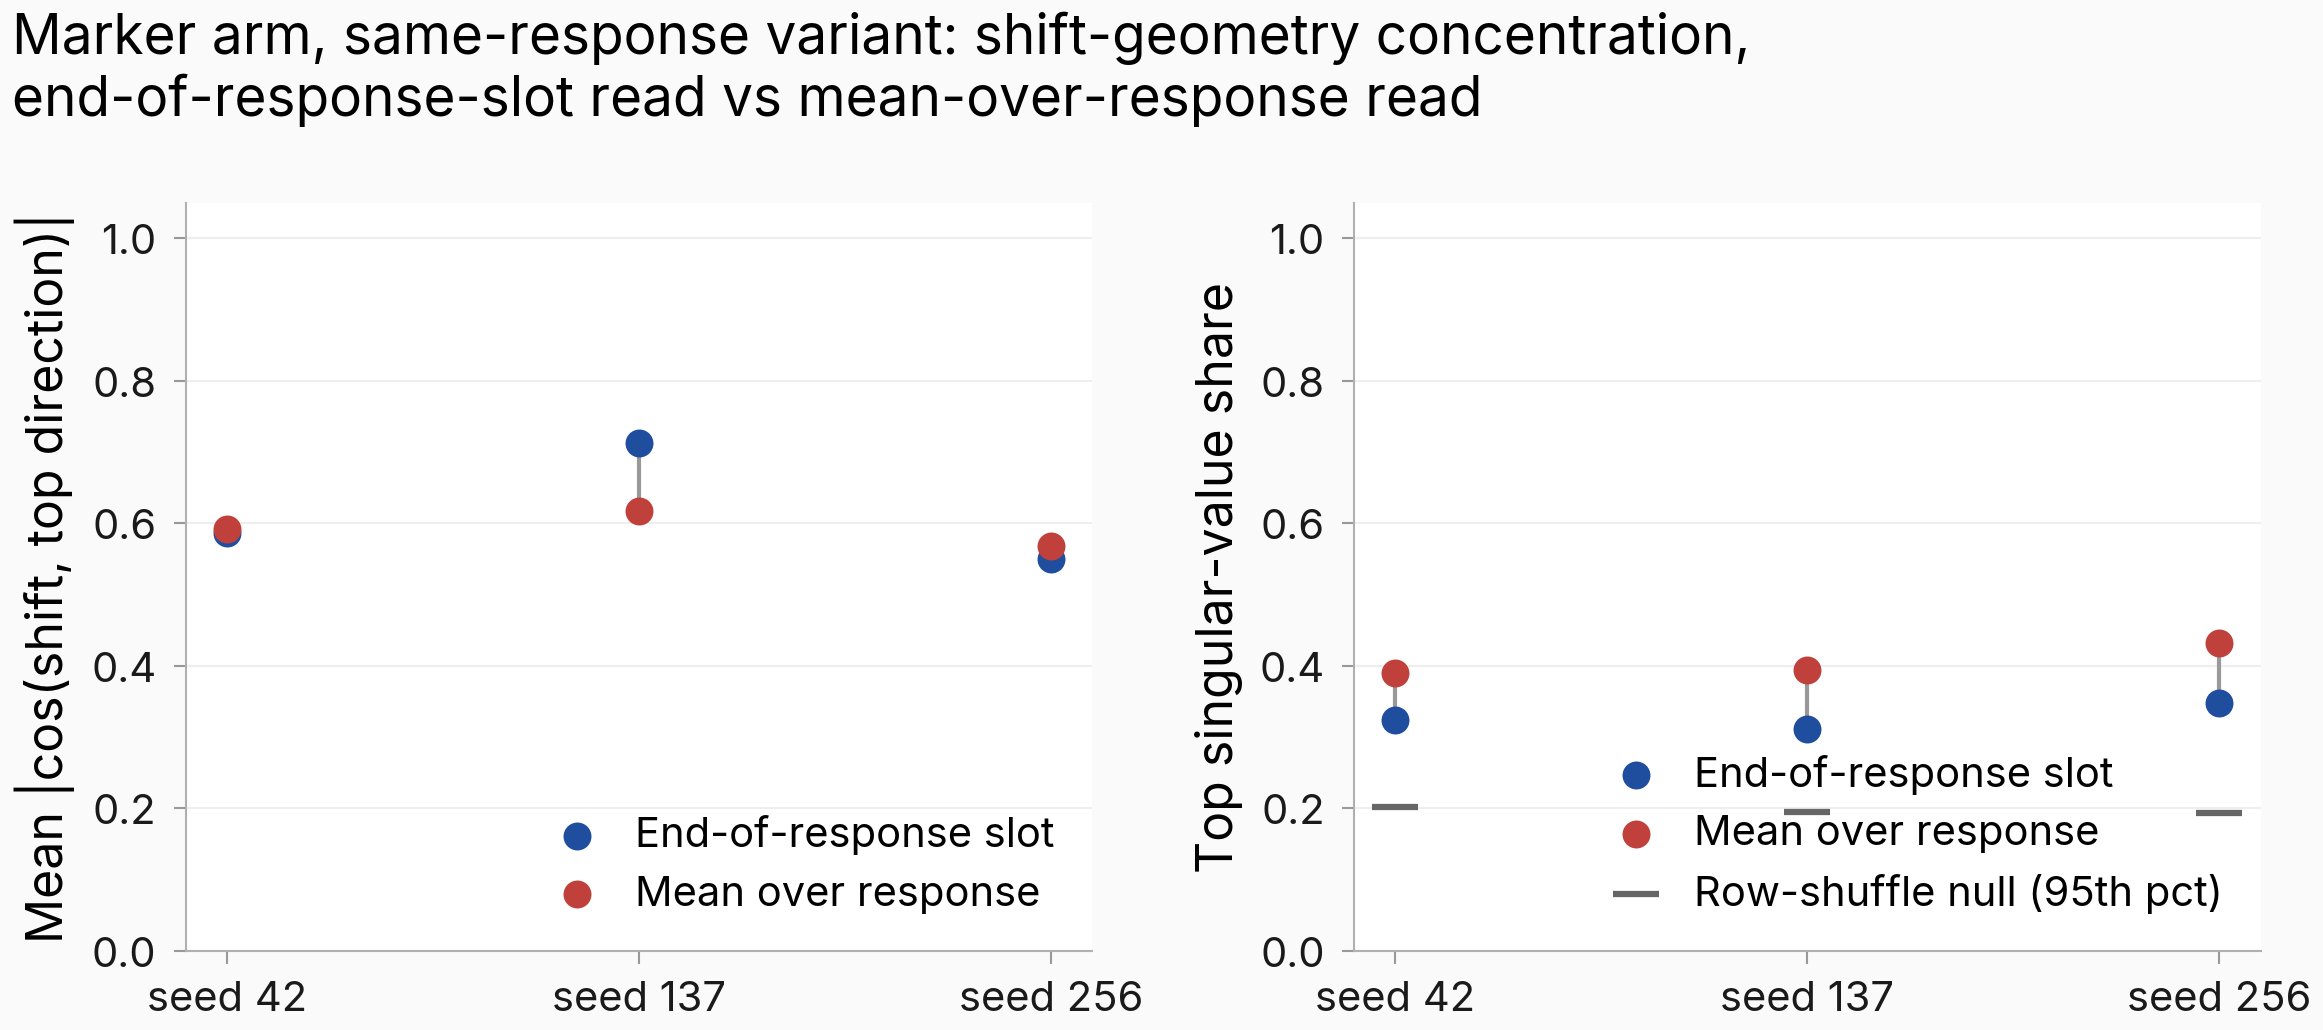
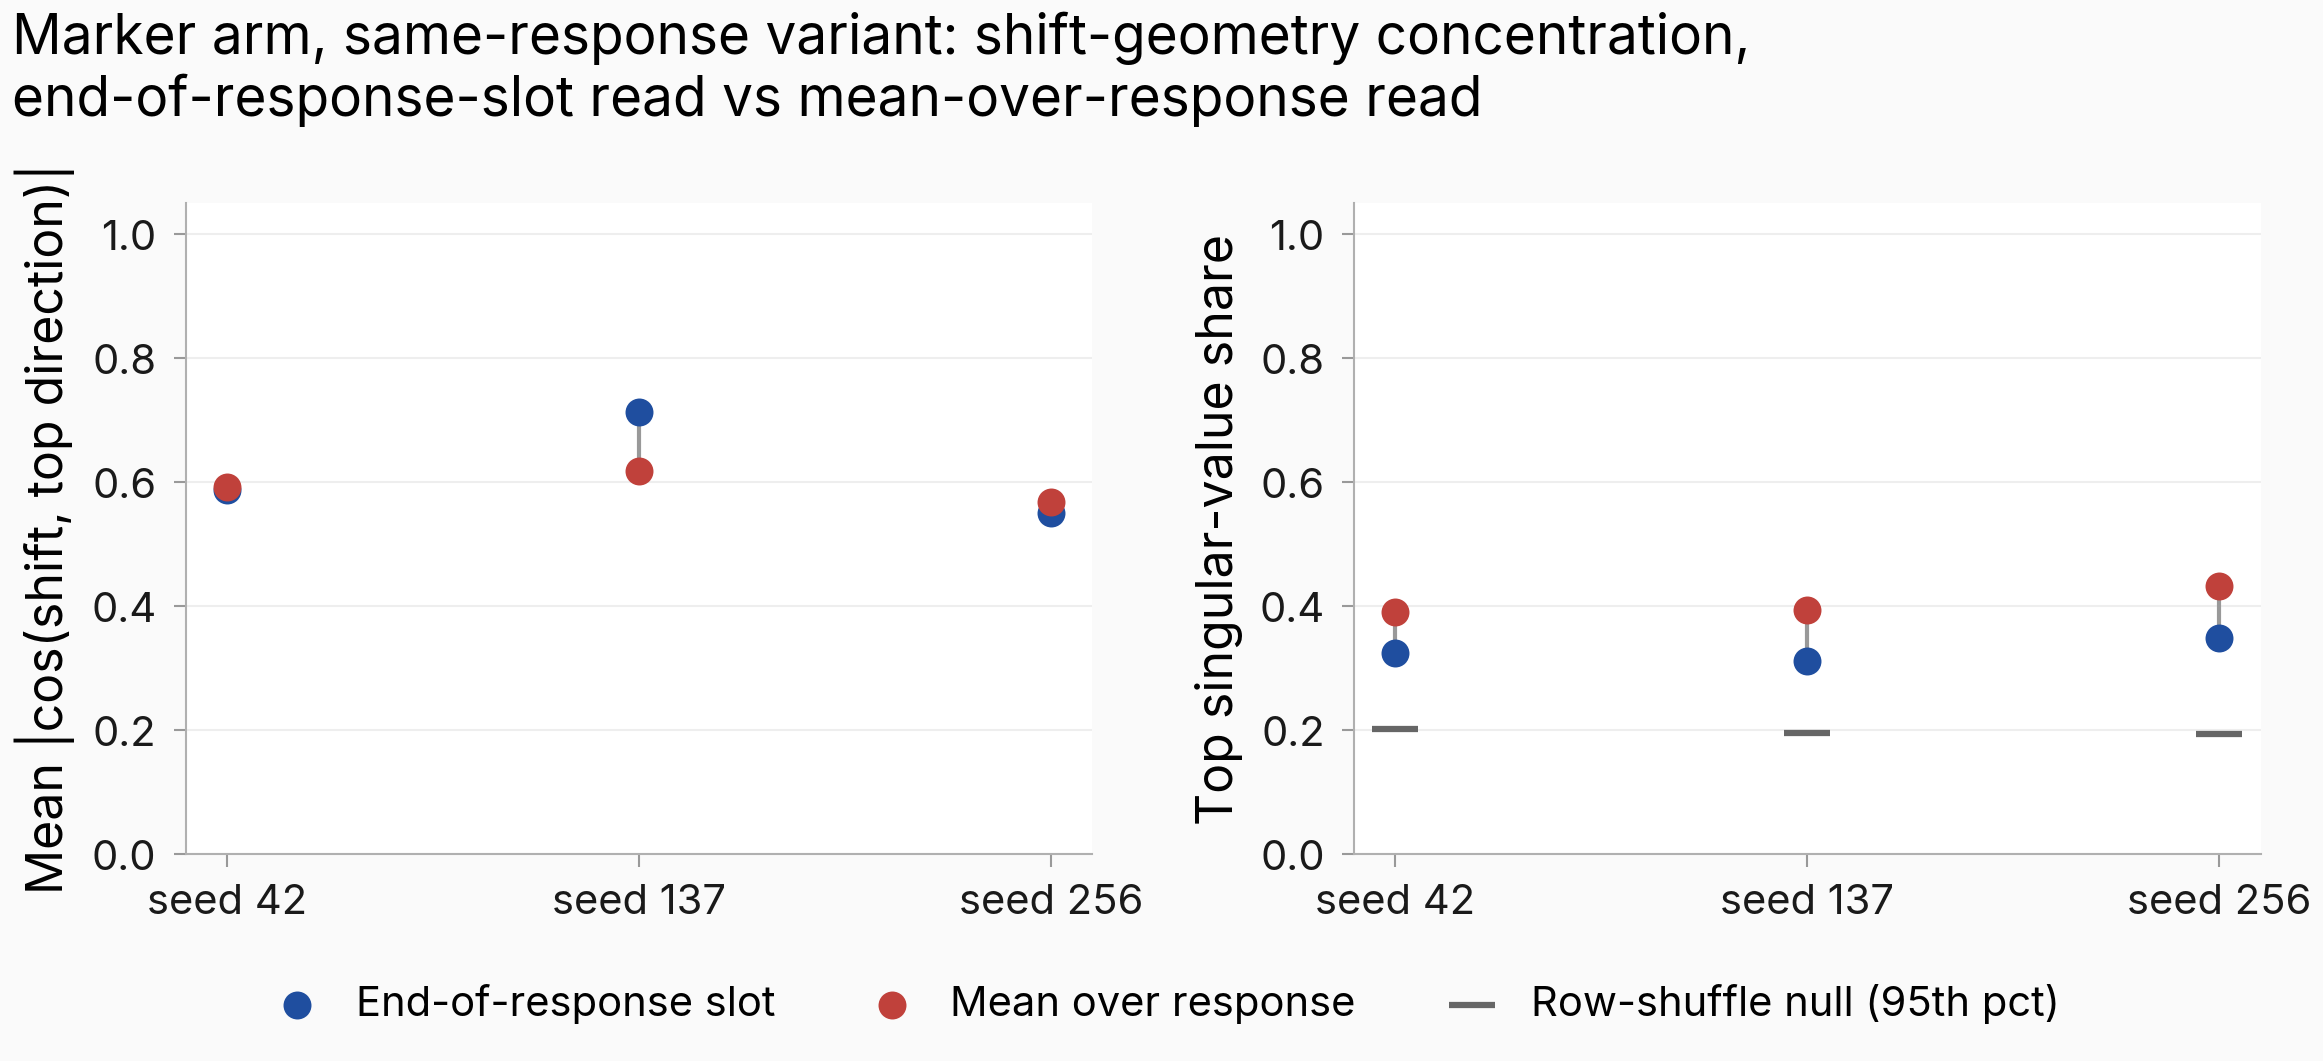
issue-552: move concordance-figure legend below panels (interp-critique round-1 request 5 — seed-137 row-shuffle dash was occluded in the marker figure)

diff --git a/scripts/issue552_mean_resp_svd.py b/scripts/issue552_mean_resp_svd.py
@@ -364,8 +364,18 @@ def _make_figure(
         ax.set_xticklabels(labels)
         ax.set_ylabel(ylabel)
         ax.set_ylim(0, 1.05)
-    axes[0].legend(loc="lower right")
-    axes[1].legend(loc="lower right")
+    # Figure-level legend below the panels, outside the data region: an
+    # in-axes lower-right legend occluded the marker arm's low row-shuffle
+    # null dashes (~0.19-0.20), unlike the benign/EM arms whose nulls sit
+    # high (task #552 interp-critique round 1 on the marker fold-in).
+    legend_handles, legend_labels = axes[1].get_legend_handles_labels()
+    fig.legend(
+        legend_handles,
+        legend_labels,
+        loc="lower center",
+        ncol=3,
+        frameon=False,
+    )
     fig.suptitle(
         f"{ARM_FIGURE_LABEL.get(arm, arm)}, same-response variant: "
         "shift-geometry concentration,\n"
@@ -373,7 +383,7 @@ def _make_figure(
         x=0.02,
         ha="left",
     )
-    fig.tight_layout()
+    fig.tight_layout(rect=(0, 0.09, 1, 1))
     # Benign keeps the original stem (back-compat with the committed figure);
     # other arms get an arm-suffixed stem so the benign figure is never clobbered.
     stem = "mean_resp_concordance" if arm == DEFAULT_ARM else f"mean_resp_concordance_{arm}"
